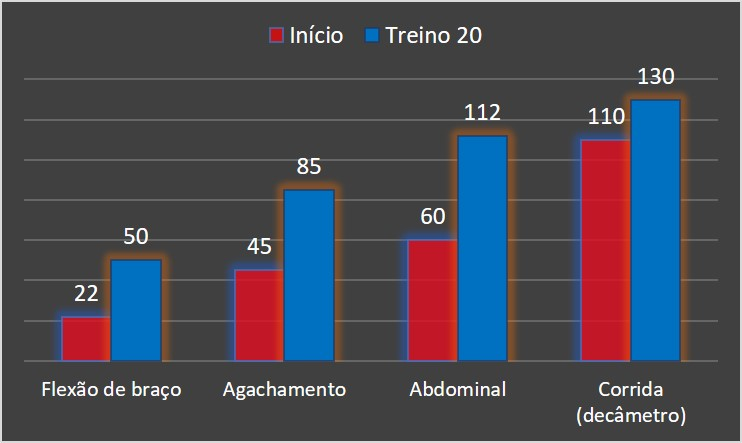
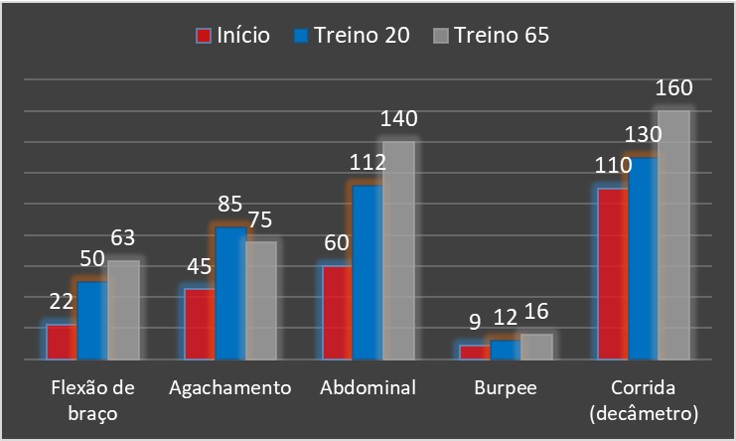
naju

diff --git a/docs/atletas/0560.html b/docs/atletas/0560.html
@@ -37,10 +37,10 @@
             </br>
            Frequência: 2x por semana com lições de casa
         </br>
-        Número de treinos: 20 treinos
+        Número de treinos: 65 treinos
         </br>
-        Característica: Treinos focados em correção postural com ênfase em ganho de força de membros superiores. Após testes, foi
-        identificado encurtamento de cadeia posterior, elemento a ser trabalhado nas sessões de treino.
+        Característica: Treinos focados em correção postural com ênfase em ganho de força de membros superiores. Com pequeno
+        encurtamento de cadeia posterior.
             </p>
             </div>
         </section>
@@ -52,11 +52,12 @@
                 <img class="shoot" src="../galeria/naju1.jpg">
                 <p>Os testes são um dos parâmetros de melhoria do processo de trabalho. Sendo um norteador importante, entender
                     como o corpo está respondendo é a base para treinos futuros. Conforme o gráfico, em comparativo 
-                    do primeiro dia de treino e o número 20, você obteve melhora em todos os aspectos.
+                    do teste anterior, você obteve melhora em todos os aspectos, exceto o agachamento.
             </p>
-            <p>Nota-se que a flexão de braço, a melhora foi de 127% a mais comparado ao dia um, a maior diferença dentre os exercícios.
+            <p>Nota-se que a flexão de braço, a melhora foi de 26% a mais comparado ao teste anterior, o burpee de 33%, o abdominal de 
+                25% e a corrida de 23%, com piora de 12% no agachamento com salto.
                 Com isso podemos ter uma ideia de que o treino está sendo eficiente, uma vez que um dos seus objetivos era fortalecer 
-                membros superiores.
+                membros superiores e melhorar a corrida. Sobre a ligeira caida no agachamento, pode ser devido o cansaço dos ultimos dias.
             </p>
             </div>
         </section>
@@ -66,12 +67,12 @@
                
                 <img class="shoot" src="../galeria/naju2.jpg">
                 
-                <p> Neste gráfico vemos a diferença em 20 treinos. A flexão de braço teve um aumento de 127%, o agachamento de 89%,
-                    o abdominal de 87% e a corrida de 18%.    
+                <p> Neste gráfico vemos a diferença entre os treinos. Pode-se dizer que de forma geral tivemos um desempenho
+                    exemplar. 
             </p>
             <br/>
-            <p> Este ultimo, como não era um dos objetivos principais para esse primeiro 
-                    bloco, comparado aos outros, a melhoria foi menor (porém muito expressiva).
+            <p> O treino de corrida se mostrou efetivo, uma vez que você se deslocou maior distância, no mesmo tempo com frequência 
+                cardiaca média menor.
         </p>
             </div>
         </section>
@@ -81,7 +82,7 @@
             <div class="segundapagina espaco">   
                
                 <p> Agora a melhora será mais difícil com o passar dos treinos, portanto não podemos parar. 
-                    Para passos futuros, melhorar seu sistema cardiovascular, além de aumentar a flexibilidade e mobilidade
+                    Para passos futuros, melhorar um pouco a alimentação, força e flexibilidade e mobilidade
                 de arco posterior. </p>
                 <br/>
                 <br/>
